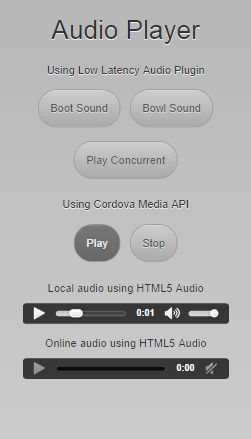
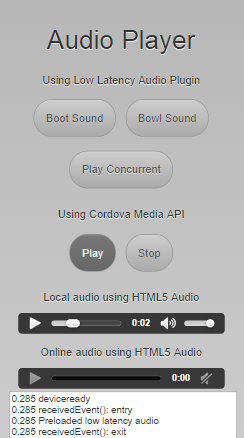
updated with console text area

diff --git a/www/js/app.js b/www/js/app.js
@@ -28,22 +28,13 @@ function myEventHandler() {
     alert(str);
 }
 
-function emulator() {
-    if (window.tinyHippos) {
+function emulator() {    
         alert("This plays an mp3 file. The emulator only suuports wav and ogg files. Please test on app preview or built app.");
-    }
 }
 
 function thirdPartyEmulator() {
-    if (window.tinyHippos) {
-        alert("This feature uses a third party audio plugin. Third party plugins are not supported on emulator or app preview. Please build app to test.");
-    }
+    alert("This feature uses a third party audio plugin. Third party plugins are not supported on emulator or app preview. Please build app to test.");
 }
-
-
-
-
-
 
 //Native audio playback plugin methods
 var app = {
@@ -63,39 +54,72 @@ var app = {
     // The scope of 'this' is the event. In order to call the 'receivedEvent'
     // function, we must explicitly call 'app.receivedEvent(...);'
     onDeviceReady: function () {
-        app.receivedEvent('deviceready');
         console.log('deviceready');
+        app.receivedEvent('deviceready');
+
     },
     // Update DOM on a Received Event
     receivedEvent: function (id) {
+        "use strict";
+        var fName = "receivedEvent():";
+        console.log(fName, "entry");
+        console.log("Preloaded low latency audio");
+        try {
+            if (window.plugins && window.plugins.LowLatencyAudio) {
+                window.plugins.LowLatencyAudio.preloadFX('sounds/boot-sound.wav', 'sounds/boot-sound.wav', function (msg) {}, function (msg) {
+                    alert('Error: ' + msg);
+                });
+                window.plugins.LowLatencyAudio.preloadFX('sounds/sound-bowl.wav', 'sounds/sound-bowl.wav', function (msg) {}, function (msg) {
+                    alert('Error: ' + msg);
+                });
+            }
 
-        if (window.plugins && window.plugins.LowLatencyAudio) {
-            window.plugins.LowLatencyAudio.preloadFX('sounds/boot-sound.wav', 'sounds/boot-sound.wav', function (msg) {}, function (msg) {
-                alert('Error: ' + msg);
-            });
-            window.plugins.LowLatencyAudio.preloadFX('sounds/sound-bowl.wav', 'sounds/sound-bowl.wav', function (msg) {}, function (msg) {
-                alert('Error: ' + msg);
-            });
+        } catch (e) {
+            console.log(fName, "catch, failure");
         }
+
+        console.log(fName, "exit");
 
     },
 
     play: function (aud) {
-        //Emulator alert
-        thirdPartyEmulator();
+        "use strict";
+        var fName = "app.play():";
+        console.log(fName, "entry");
+        try {
+            if (window.tinyHippos) {
+                thirdPartyEmulator();
+                console.log(fName, "emulator alert");
+            } else {
 
-        document.getElementById(aud).className = 'audio activated';
-        window.plugins.LowLatencyAudio.play('sounds/' + aud + '.wav');
+                window.plugins.LowLatencyAudio.play('sounds/' + aud + '.wav');
+            }
+        } catch (e) {
+            console.log(fName, "catch, failure");
+        }
+
+        console.log(fName, "exit");
     },
 
-    playConcurr: function (aud1, aud2) {
-    //Emulator alert
-    thirdPartyEmulator();
 
-//    document.getElementById(aud).className = 'audio activated';
-    window.plugins.LowLatencyAudio.play('sounds/' + aud1 + '.wav');
-        window.plugins.LowLatencyAudio.play('sounds/' + aud2 + '.wav');
-},
+    playConcurr: function (aud1, aud2) {
+        "use strict";
+        var fName = "app.playConcurr():";
+        console.log(fName, "entry");
+        try {
+            if (window.tinyHippos) {
+                thirdPartyEmulator();
+                console.log(fName, "emulator alert");
+            } else {
+                window.plugins.LowLatencyAudio.play('sounds/' + aud1 + '.wav');
+                window.plugins.LowLatencyAudio.play('sounds/' + aud2 + '.wav');
+            }
+        } catch (e) {
+            console.log(fName, "catch, failure");
+        }
+
+        console.log(fName, "exit");
+    },
 };
 
 
@@ -107,62 +131,93 @@ var my_media = null;
 var mediaTimer = null;
 
 // Play audio
-function playAudio(src) {
-    //Emulator alert
-    emulator();
+function playCordovaAudio(src) {
+    "use strict";
+    var fName = "playCordovaAudio():";
+    console.log(fName, "entry");
+    try {
+        if (window.tinyHippos) {
+            emulator();
+            console.log(fName, "emulator alert");
+        } else {
+            // Create Media object from src
+            my_media = new Media(src, onSuccess, onError);
 
-    // Create Media object from src
-    my_media = new Media(src, onSuccess, onError);
+            // Play audio
+            my_media.play();
 
-    // Play audio
-    my_media.play();
-
-    // Update my_media position every second
-    if (mediaTimer === null) {
-        mediaTimer = setInterval(function () {
-            // get my_media position
-            my_media.getCurrentPosition(
-                // success callback
-                function (position) {
-                    if (position > -1) {
-                        setAudioPosition((position) + " sec");
-                    }
-                },
-                // error callback
-                function (e) {
-                    console.log("Error getting pos=" + e);
-                    setAudioPosition("Error: " + e);
-                }
-            );
-        }, 1000);
+            // Update my_media position every second
+//            if (mediaTimer === null) {
+//                mediaTimer = setInterval(function () {
+//                    // get my_media position
+//                    my_media.getCurrentPosition(
+//                        // success callback
+//                        function (position) {
+//                            if (position > -1) {
+//                                setAudioPosition((position) + " sec");
+//                            }
+//                        },
+//                        // error callback
+//                        function (e) {
+//                            console.log("Error getting pos=" + e);
+//                            setAudioPosition("Error: " + e);
+//                        }
+//                    );
+//                }, 1000);
+//            }
+        }
+    } catch (e) {
+        console.log(fName, "catch, failure");
     }
+
+    console.log(fName, "exit");
 }
 
 // Pause audio
-function pauseAudio() {
-    //Emulator alert
-    emulator();
-
-    if (my_media) {
-        my_media.pause();
+function pauseCordovaAudio() {
+      "use strict";
+    var fName = "pauseCordovaAudio():";
+    console.log(fName, "entry");
+    try {
+        if (window.tinyHippos) {
+            emulator();
+            console.log(fName, "emulator alert");
+        } else {
+          if (my_media) {
+                my_media.pause();
+            }
+        }
+    } catch (e) {
+        console.log(fName, "catch, failure");
     }
+
+    console.log(fName, "exit");
 }
 
 // Stop audio
-function stopAudio() {
-    //Emulator alert
-    emulator();
-
-    if (my_media) {
-        my_media.stop();
+function stopCordovaAudio() {
+    "use strict";
+    var fName = "stopCordovaAudio():";
+    console.log(fName, "entry");
+    try {
+        if (window.tinyHippos) {
+            emulator();
+            console.log(fName, "emulator alert");
+        } else {
+          if (my_media) {
+                my_media.pause();
+            }
+        }
+    } catch (e) {
+        console.log(fName, "catch, failure");
     }
-    clearInterval(mediaTimer);
-    mediaTimer = null;
+
+    console.log(fName, "exit");
 }
 
 // onSuccess Callback
 function onSuccess() {
-    console.log("playAudio():Audio Success");
+    console.log("playCordovaAudio():Audio Success");
 }
 
 // onError Callback 
@@ -172,9 +227,9 @@ function onError(error) {
 }
 
 // Set audio position
-function setAudioPosition(position) {
-    document.getElementById('audio_position').innerHTML = position;
-}
+//function setAudioPosition(position) {
+//    document.getElementById('audio_position').innerHTML = position;
+//}
 
 
 // ...additional event handlers here...

diff --git a/www/index.html b/www/index.html
@@ -50,6 +50,7 @@
     <!-- for your init code, see README and file comments for details -->
     <script src="xdk/init-dev.js"></script>
     <!-- normalizes device and document ready events, see file for details -->
+    <script src="js/util.js"></script> 
 
     <!-- IMPORTANT: Do not include a weinre script tag as part of your release builds! -->
     <!-- Place your remote debugging (weinre) script URL from the Test tab here, if it does not work above -->
@@ -68,9 +69,9 @@
     <h2>Using Cordova Media API</h2>
     <!--    Cordova Media API is compatible with the emulator (when using wav and ogg files) and app preview-->
     <div>
-    <button type="button" onclick="playAudio('http://audio.ibeat.org/content/p1rj1s/p1rj1s_-_rockGuitar.mp3');">Play</button>
-<!--    <button type="button" onclick="pauseAudio();">Pause</button>-->
-    <button type="button" onclick="stopAudio();">Stop</button></div>
+    <button type="button" onclick="playCordovaAudio('http://audio.ibeat.org/content/p1rj1s/p1rj1s_-_rockGuitar.mp3');">Play</button>
+<!--    <button type="button" onclick="pauseCordovaAudio();">Pause</button>-->
+    <button type="button" onclick="stopCordovaAudio();">Stop</button></div>
     
 
 
@@ -90,7 +91,9 @@
     <audio controls>
         <source src="http://traffic.libsyn.com/ignwii/Nintendo_Voice_Chat__Show_and_Tell_With_Our_Favorite_Nintendo_Treasures.mp3" onclick="emulator();" type="audio/mpegURL">
     </audio></div>
-
+<div class="align-center" >
+        <textarea id="id_textArea" class="align-left" readonly="readonly" wrap="off"></textarea>
+    </div>
 
     <script type="text/javascript">
         app.initialize();

diff --git a/www/js/util.js b/www/js/util.js
@@ -1,0 +1,33 @@
+/*global console:false, window:false, moment:false, document:false */
+
+var orgConsoleLog = console.log ;
+var orgTime = Date.now() ;
+console.log = function() {
+    "use strict" ;
+
+    var args = Array.prototype.slice.call(arguments, 0) ;
+
+    if( window.moment ) {
+        args.unshift(moment().format("HH:mm:ss.SSS")) ;
+    }
+    else {
+        args.unshift(((Date.now()-orgTime)/1000).toFixed(3)) ;
+    }
+    orgConsoleLog.apply(this,args) ;
+
+    var text = args.join(" ") ;
+    var node ;
+    var el ;
+
+    el = document.getElementById("id_textArea") ;
+    if( el ) {
+        node = document.createTextNode(text + "\n") ;
+        el.appendChild(node) ;
+    }
+
+    el = document.getElementById("id_msgBar") ;
+    if( el ) {
+        node = document.createTextNode(text) ;
+        el.replaceChild(node,el.childNodes[0]) ;
+    }
+} ;

diff --git a/www/css/app.css b/www/css/app.css
@@ -17,6 +17,8 @@ body {
     background-image: -o-linear-gradient(top, #b7b7b7, #cccccc);
     background-image: linear-gradient(to bottom, #b7b7b7, #cccccc);
     height: 100%;
+    width: auto;
+    padding: 20px;
     margin: 0;
     background-repeat: no-repeat;
     background-attachment: fixed;
@@ -50,6 +52,7 @@ textarea {
     font: normal 14px/120% "Intel Clear W Italic", Arial, sans-serif;
     color: rgb(51, 51, 51);
     text-align: left;
+    
 }
 
 .align-center {
